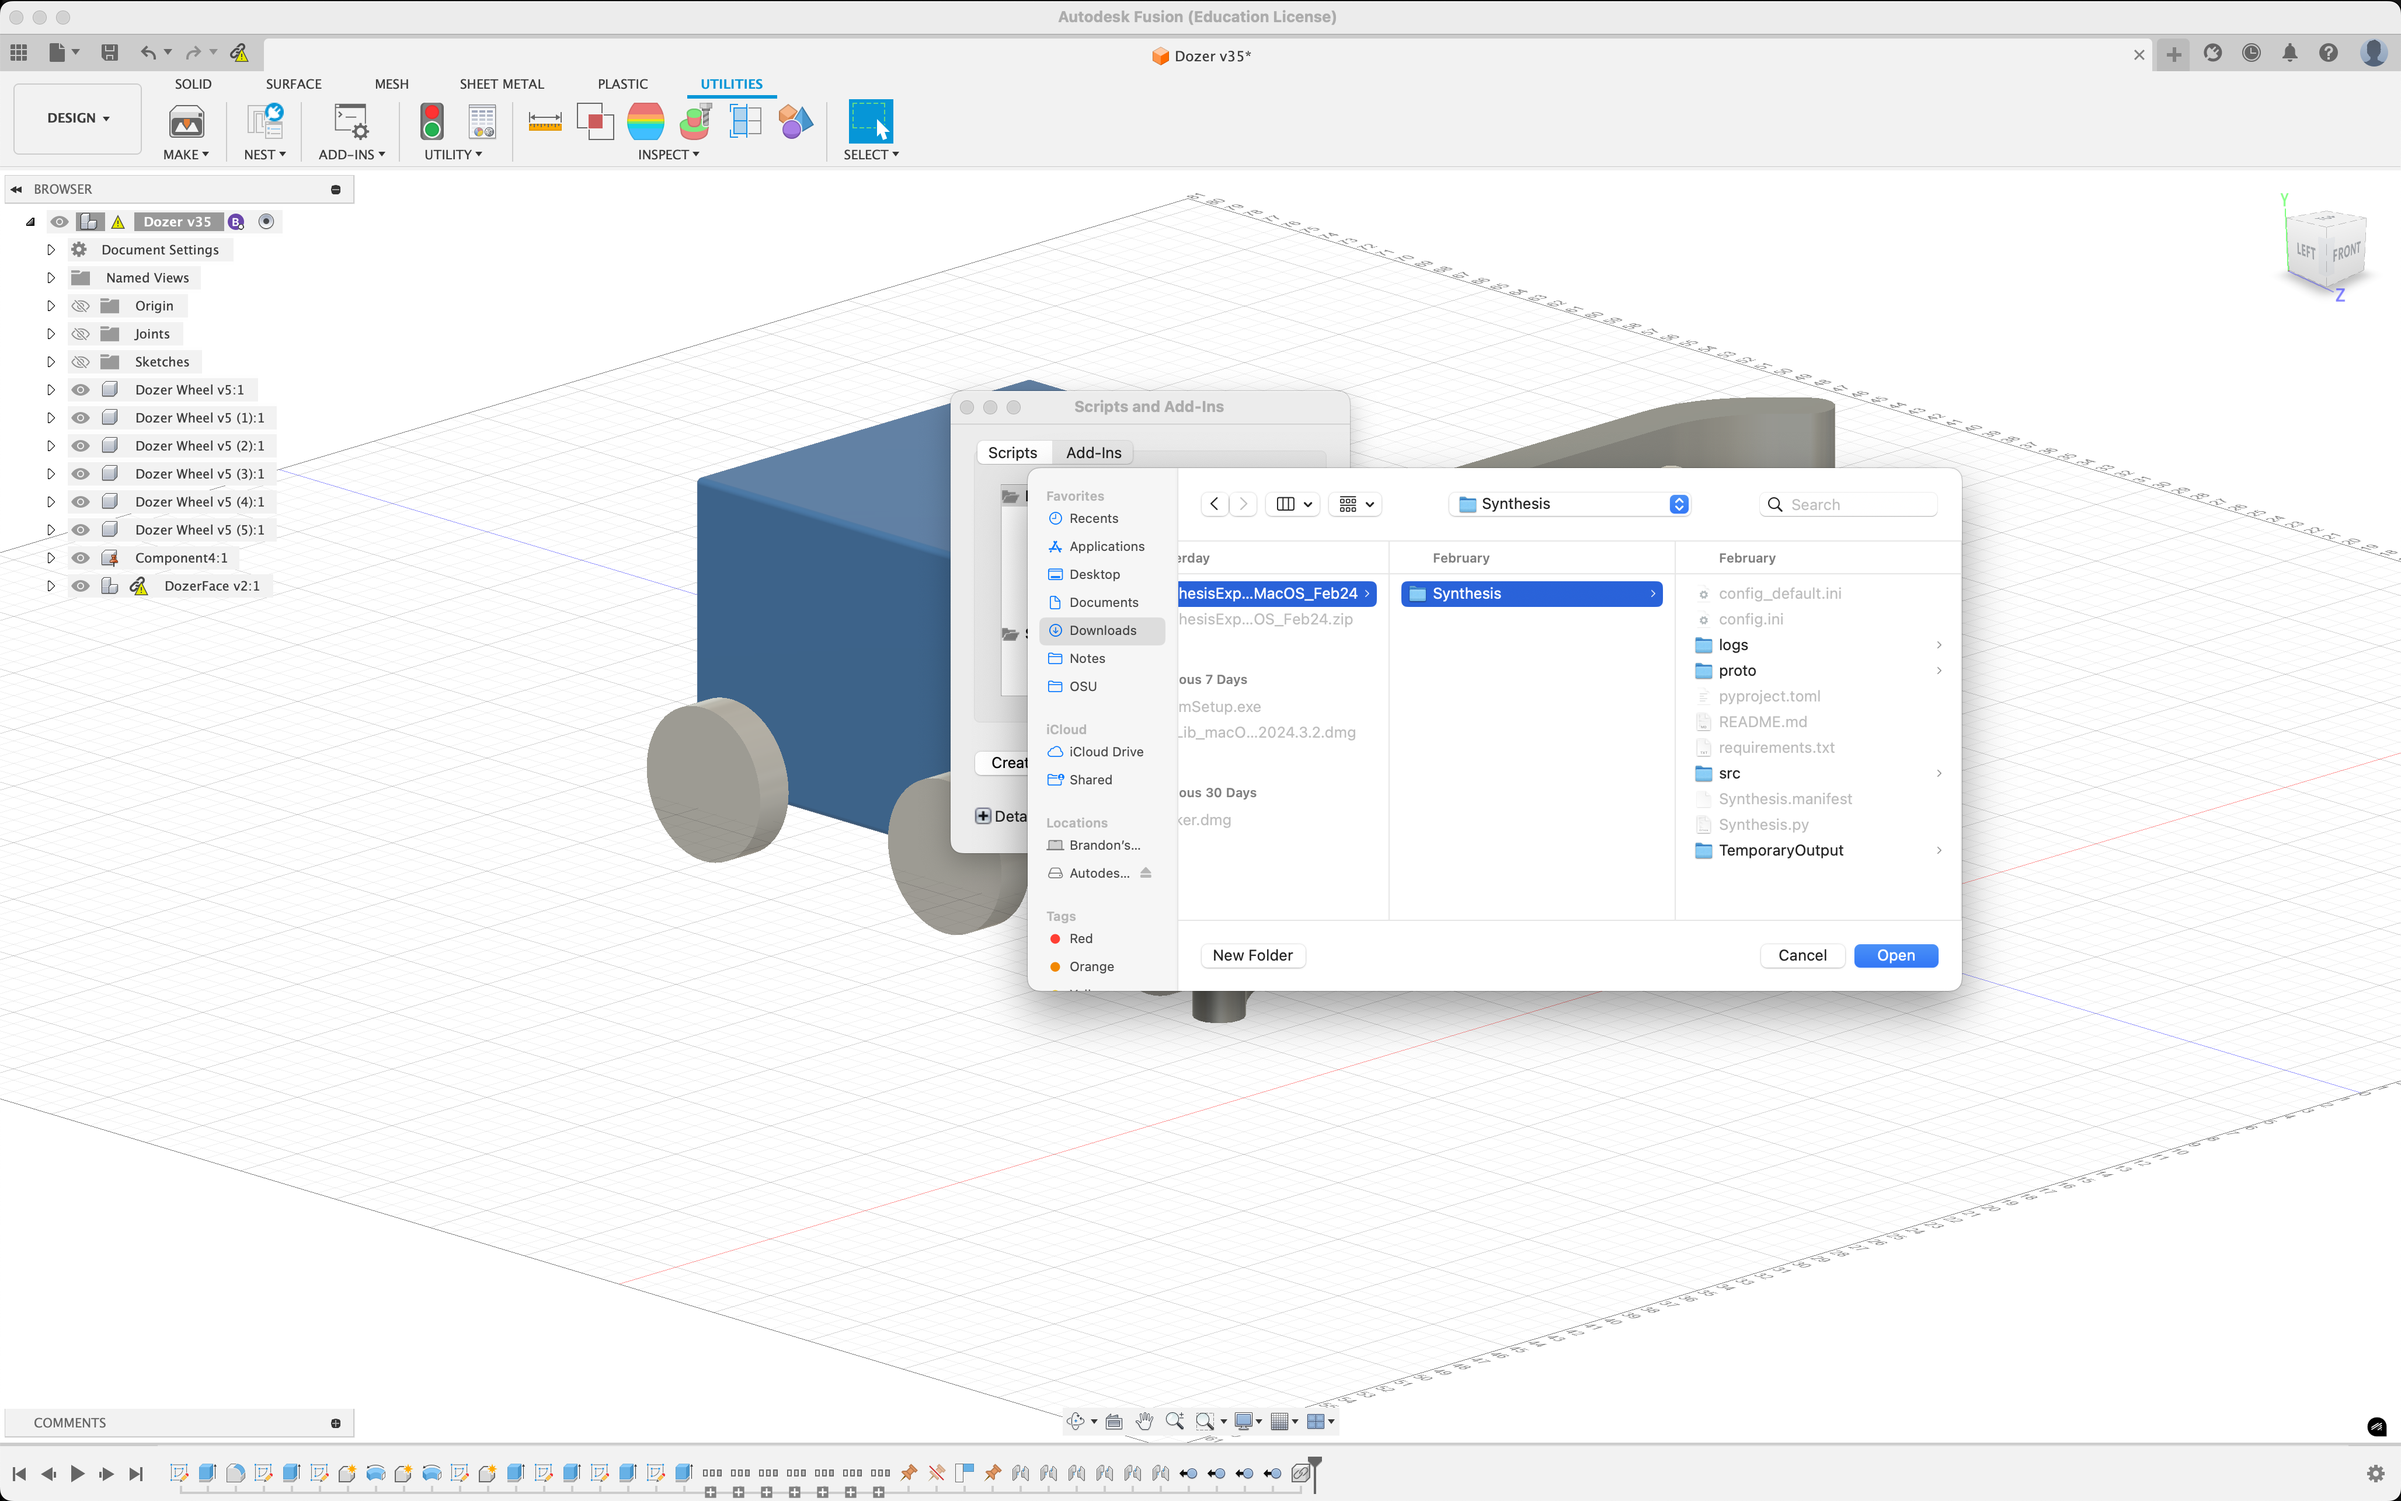
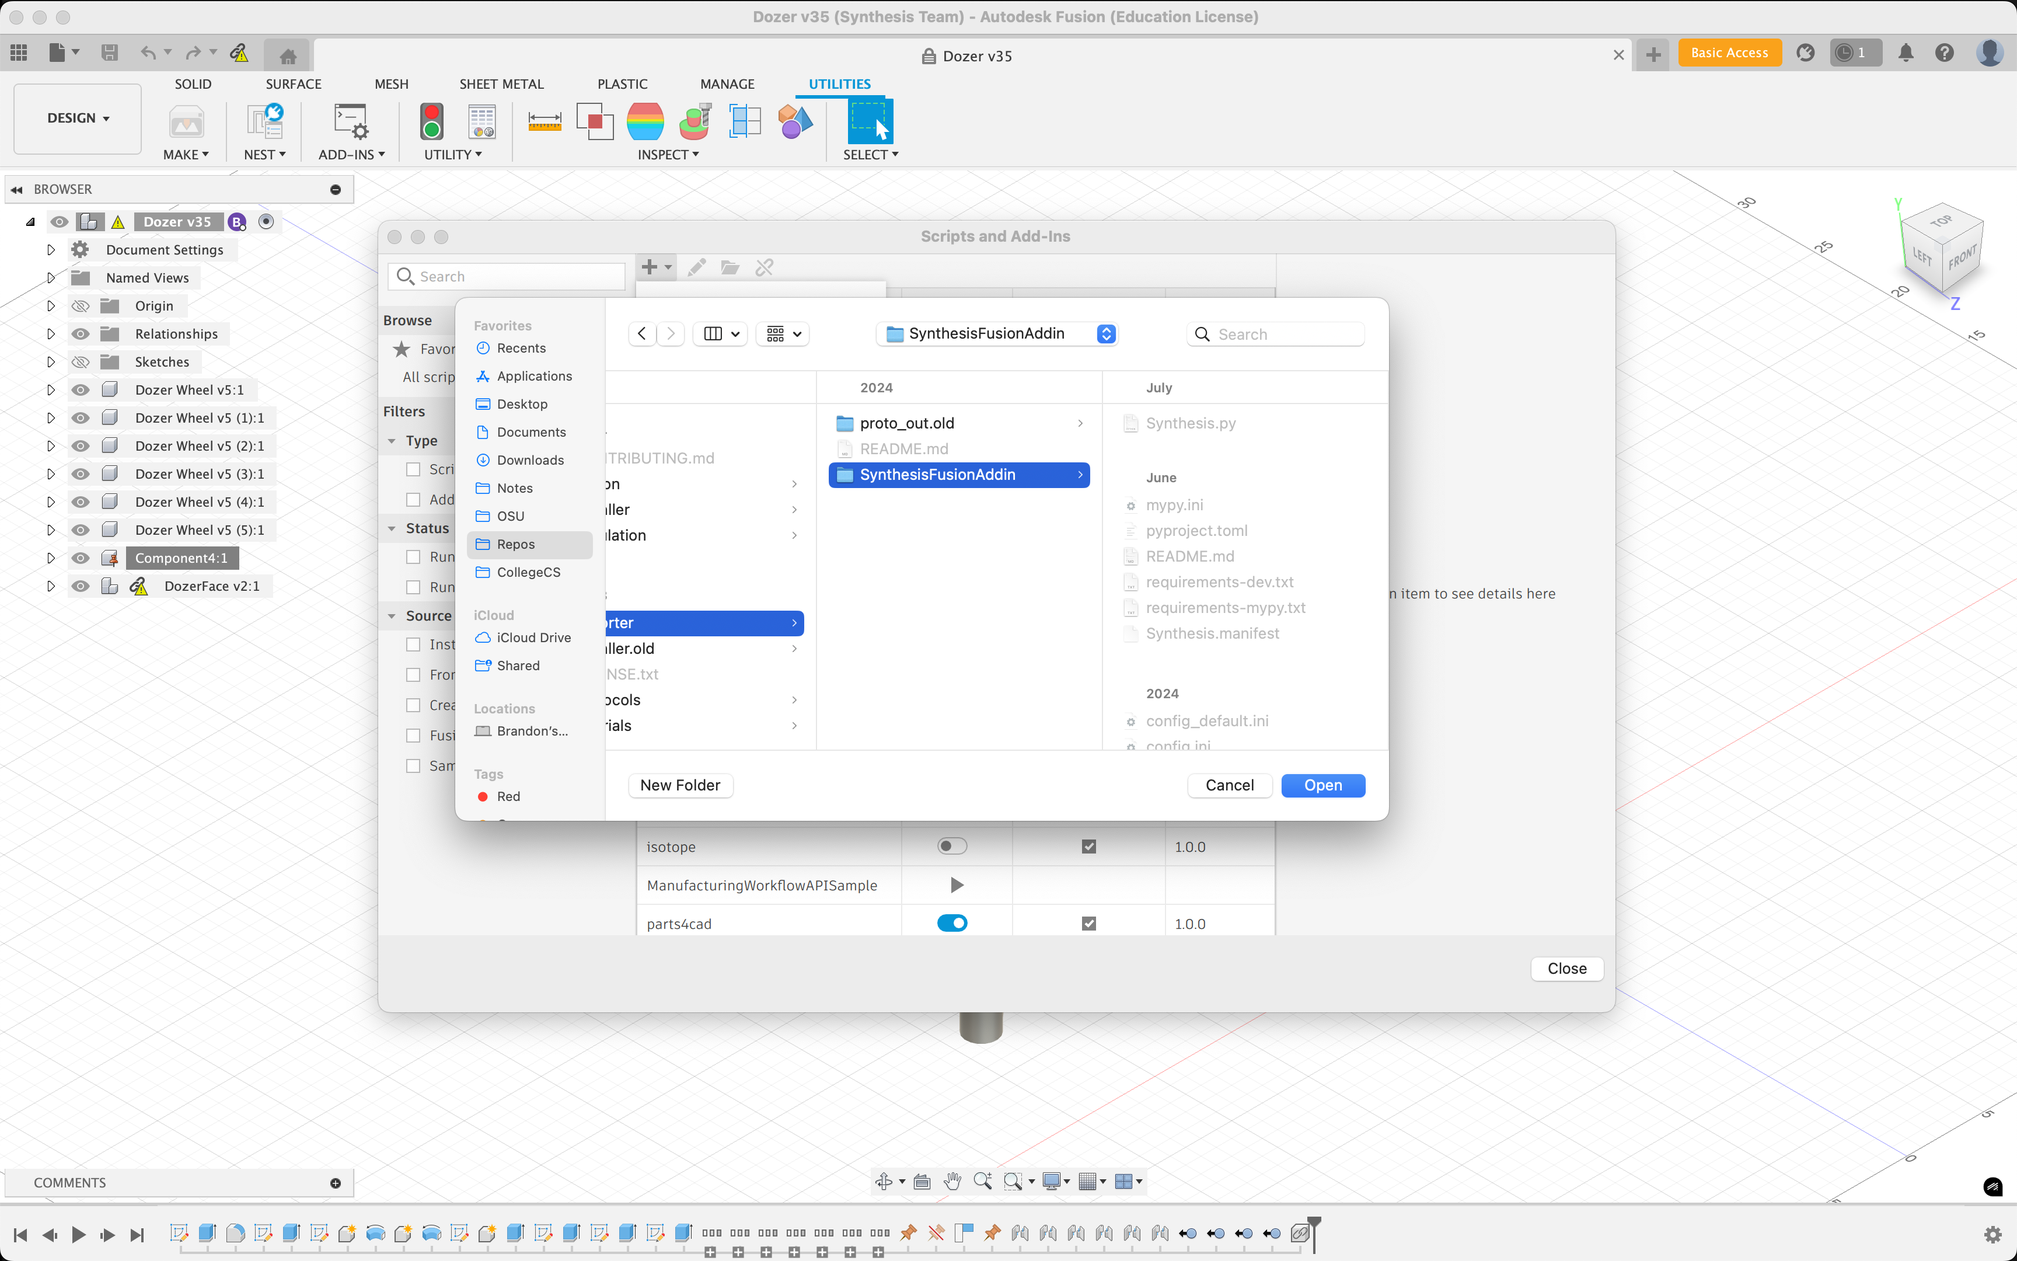
docs: update manual exporter install tutorial

diff --git a/tutorials/FusionExporter.md b/tutorials/FusionExporter.md
@@ -38,13 +38,13 @@ For information regarding the manual install process visit the [Synthesis Fusion
 ![image_caption](img/fusion/fusion-empty.png)
 - Click on `Scripts and Add-ins` in the toolbar.
 ![image_caption](img/fusion/fusion-addins-highlight.png)
-- Navigate to `Add-ins` and select the green plus icon.
+- Navigate to `Add-ins`, click on the plus at the top and navigate to `Script or add-in from device`.
 ![image_caption](img/fusion/fusion-addins-panel.png)
 - Now navigate to wherever you extracted the original `.zip` source code file you downloaded.
   - Make sure to select the folder that contains the `Synthesis.py` file, this is the entry point to the Exporter.
 ![image_caption](img/fusion/fusion-add-addin.png)
-- Once the extension is added you should be able to see it under `My Add-Ins`.
-- Select `Synthesis` from the `My Add-Ins` drop down and click `Run` in the bottom right.
+- Select `Synthesis` from the addins panel and check `Run`.
+- Optionally select `Run on Startup` (this may already be checked in some builds of the Exporter).
 ![image_caption](img/fusion/fusion-addin-synthesis.png)
 - The first time you run the extension it may prompt you to restart Fusion, this is totally normal.
 - Once you restart Fusion the extension will run on startup, you will be able to find it on the right side of the toolbar
